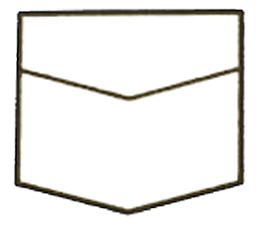
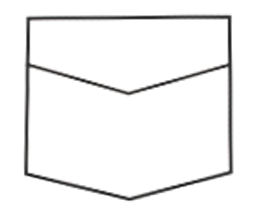
implementação de figuras e melhorias

Changed region(s): [[0.0312, 0.0276, 0.9688, 0.9677]]

diff --git a/src/Components/Medidas/medidas.jsx b/src/Components/Medidas/medidas.jsx
@@ -111,6 +111,8 @@ const Medidas = () => {
                 </div>
               </form>
             </div>
+
+
             <div className="typePunho">
               <h3 className="scribeParis">Modelos de Punho</h3>
               <form className="modelPunho">
@@ -155,23 +157,56 @@ const Medidas = () => {
                 </div>
               </form>
             </div>
-            <div className="typeCamisa">
+
+
+
+            <section className="TypeCamisa">
               <h3 className="scribeParis">Modelo da Camisa</h3>
-              <div className="columnShirtMeasure">
-                <div className="itemA">
-                  <img className="Mang" src={Manga} alt="" />
-                  <div className="itemPalaBolso">
-                    <img className="itemShirtMeasure" src={Bolso} alt="" />
-                    <img className="itemShirtMeasure" src={Pala} alt="" />
-                    <img className="itemShirtMeasure" src={Frente} alt="" />
-                    <img className="itemShirtMeasure" src={Costa} alt="" />
-                    <div className="itemB">D</div>
-                  </div>
-                  <div className="containerFour">
-                  </div>
-                </div>
-              </div>
-            </div >
+
+              <section className="containerMoldeMeasure">
+                <div className="leftMolde">
+                  <img className="imgMang" src={Manga} alt="" />
+                  <section className="itemBolso">
+                    <img className="imgbolso" src={Bolso} alt="" />
+                    <img className="imgbolso" src={Pala} alt="" />
+                  </section>
+                  <section className="itemFreteCosta">
+                    <img className="imgFrente" src={Frente} alt="" />
+                    <img className="imgFrente" src={Costa} alt="" />
+
+                  </section>
+                </div >
+
+                <section className="sectionScribe">
+                  <section className="scribeForObs">a</section>
+
+
+                  B</section>
+              </section>
+            </section >
+
+
+
+
+
+
+            <span className="spanMangaMeasure"> </span>
+
+
+            <span className="BolsoPalaMeasure"> </span>
+            {/* */}
+
+            {/* <div className="gridLeftMeasure">  */}
+
+            {/* <div className="itemA">
+              <div className="itemPalaBolso">
+                <div className="itemB">D</div>
+              </div> */}
+            {/* </div> */}
+
+
+
+
           </div >
         </div >
       </div >

diff --git a/src/Components/Medidas/medidas.css b/src/Components/Medidas/medidas.css
@@ -235,21 +235,18 @@
   height: 80px;
   background-color: #e7e7e7;
 }
-
 .typePunho {
 width: 100%;
 height: 70px;
 margin-top: 57px;
 background-color: #e7e7e7;
 }
-
 .typeCamisa {
   width: 100%;
   height: 70px;
   margin-top: 57px;
   background-color: #e7e7e7;
-  }
-  
+  }  
   .columnShirtMeasure {
     display: grid;
     grid-template-columns: 25% 75%;
@@ -293,4 +290,84 @@ background-color: #e7e7e7;
   margin-left: 50%;
   transform: translate(-50%);
 }
+/*  */
+.TypeCamisa{
+  display: block;
+  width: 100%;
+  height: 70px;
+  margin-top: 57px;
+}
+.containerMoldeMeasure {
+  display: flex;
+  /* background-color: violet; */
+  background-color: #e7e7e7;
+  width: 100%;
+}
+.leftMolde {
+  display: block;
+  width: 35%;
+}
+.imgMang {
+  margin-left: 10px;  
+}
+.itemBolso {
+  display: flex;
+  gap: 95px;
+  margin-left: 15px;
+}
+.imgbolso {
+  width: 75px;
+}
+.itemFreteCosta {
+  display: flex;
+  margin-left: 10px;
+  margin-top: 5px;
+}
+.imgFrente {
+  width: 120px;
+  height: 250px;
+  margin-left: 10px;
+}
+.sectionScribe {
+  width: 65%;
+  /* background-color: yellowgreen;  */
+}
+.scribeForObs {
+  display: flex;
+  width: 100%;
+  height: 100%;
+  background-color: white;
+  border-radius:  1px solid #222;
+}
+
+
+
+
+
+
+
+
+
+
+
+
+.gridLeftMeasure {
+ 
+}
+.spanMangaMeasure {
   
+}
+.BolsoPalaMeasure {
+  
+}
+
+.imgbolso {
+  
+}
+
+
+
+
+
+
+

diff --git a/src/Components/Menu/menu.css b/src/Components/Menu/menu.css
@@ -74,5 +74,3 @@
   margin-left: 50%;
   transform: translate(-50%);
 }
-
-
